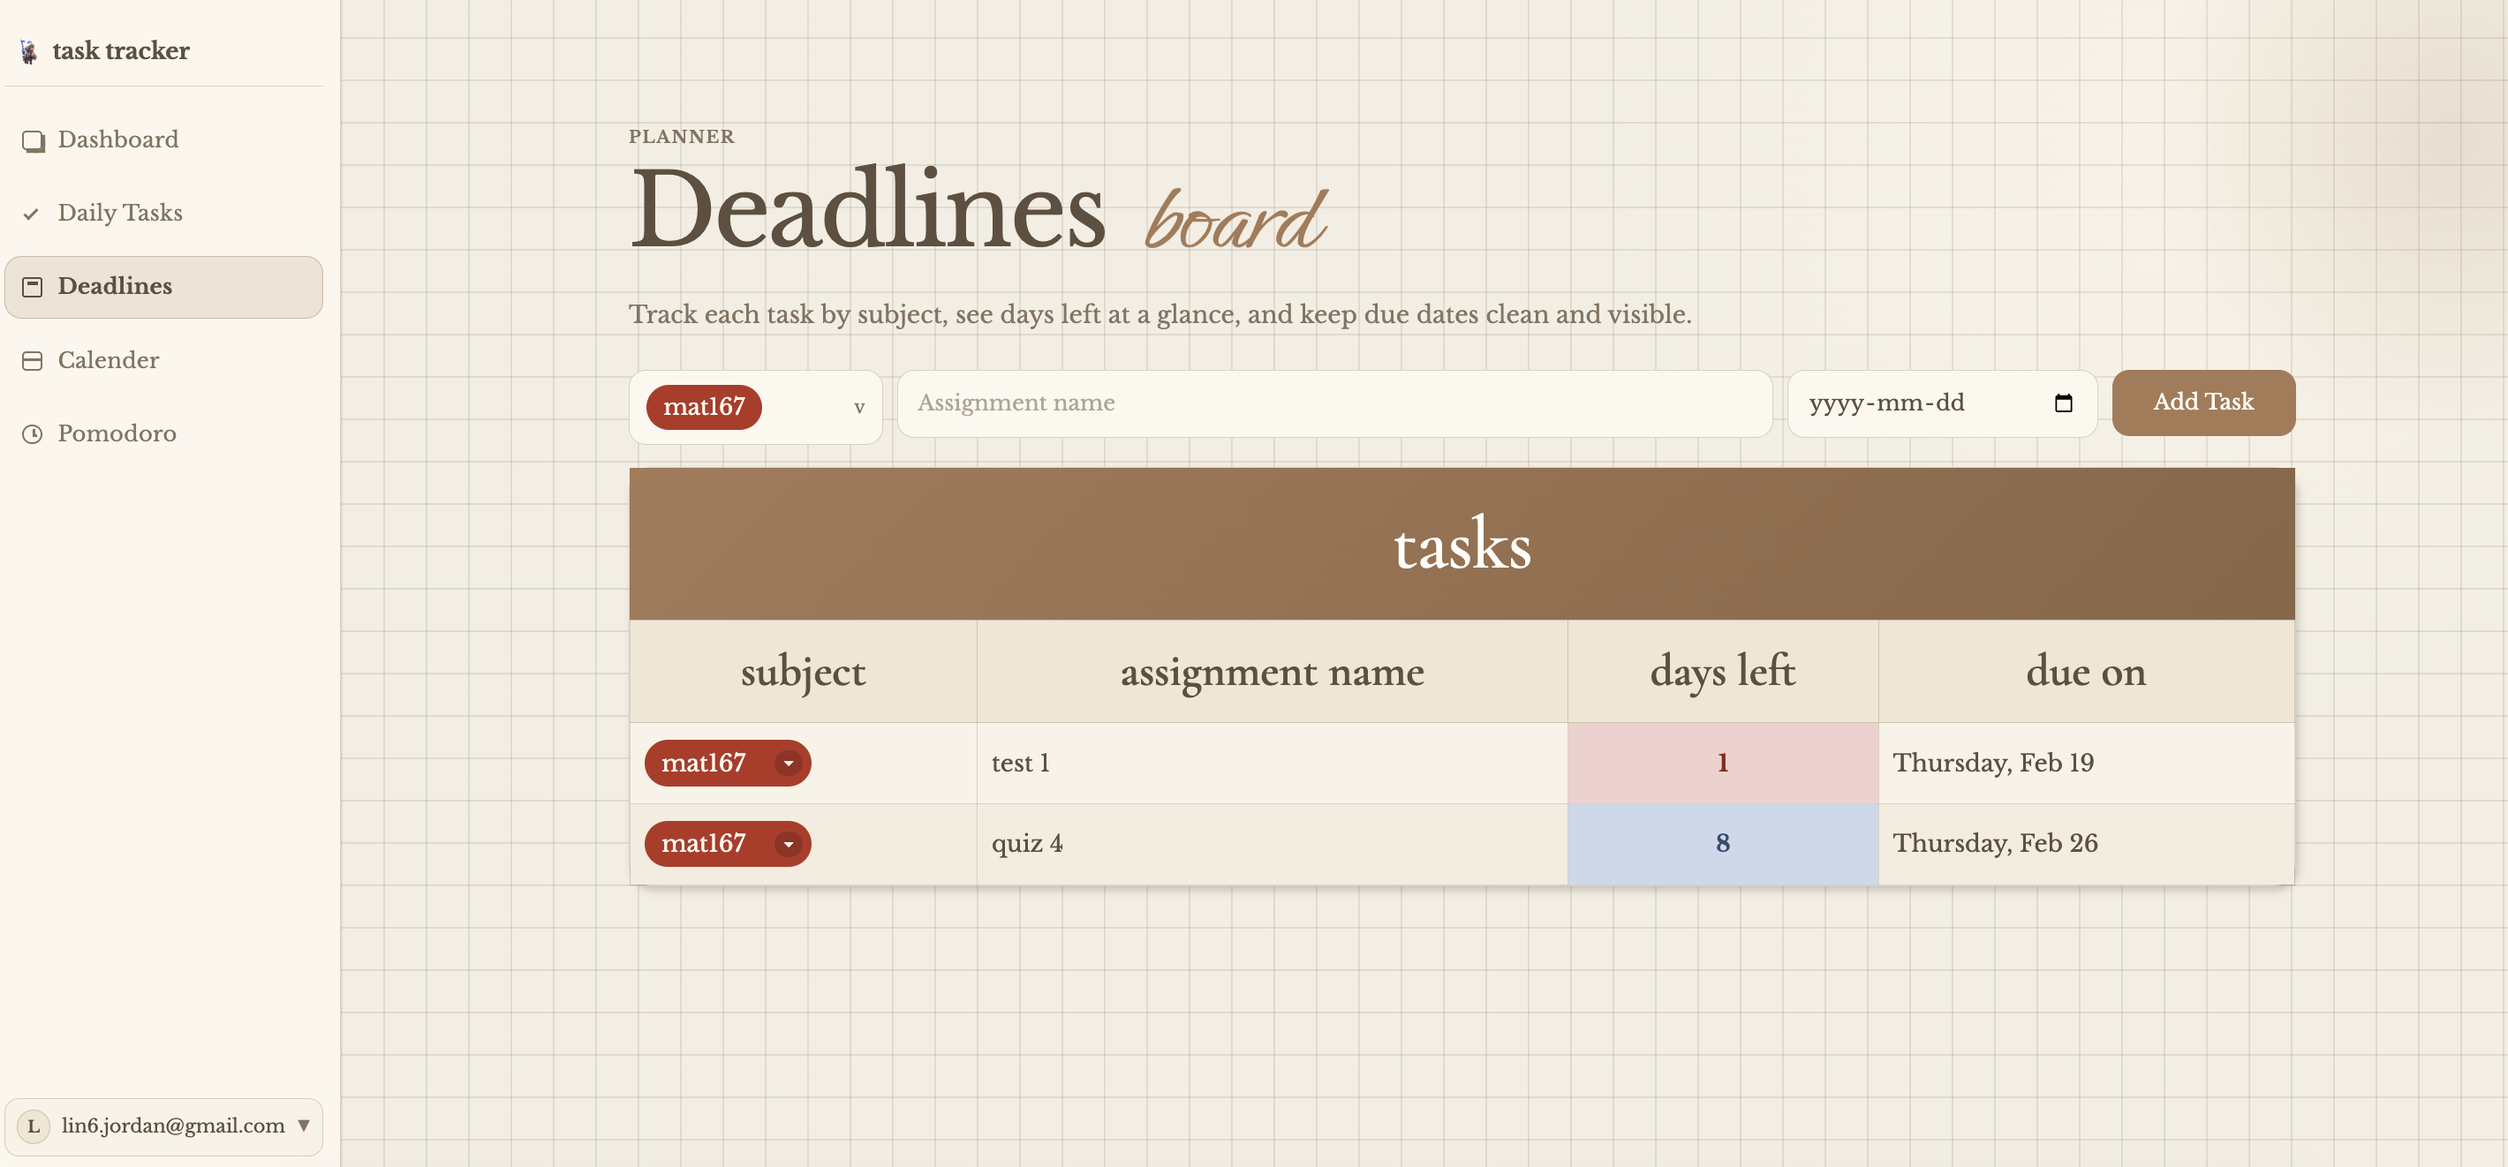
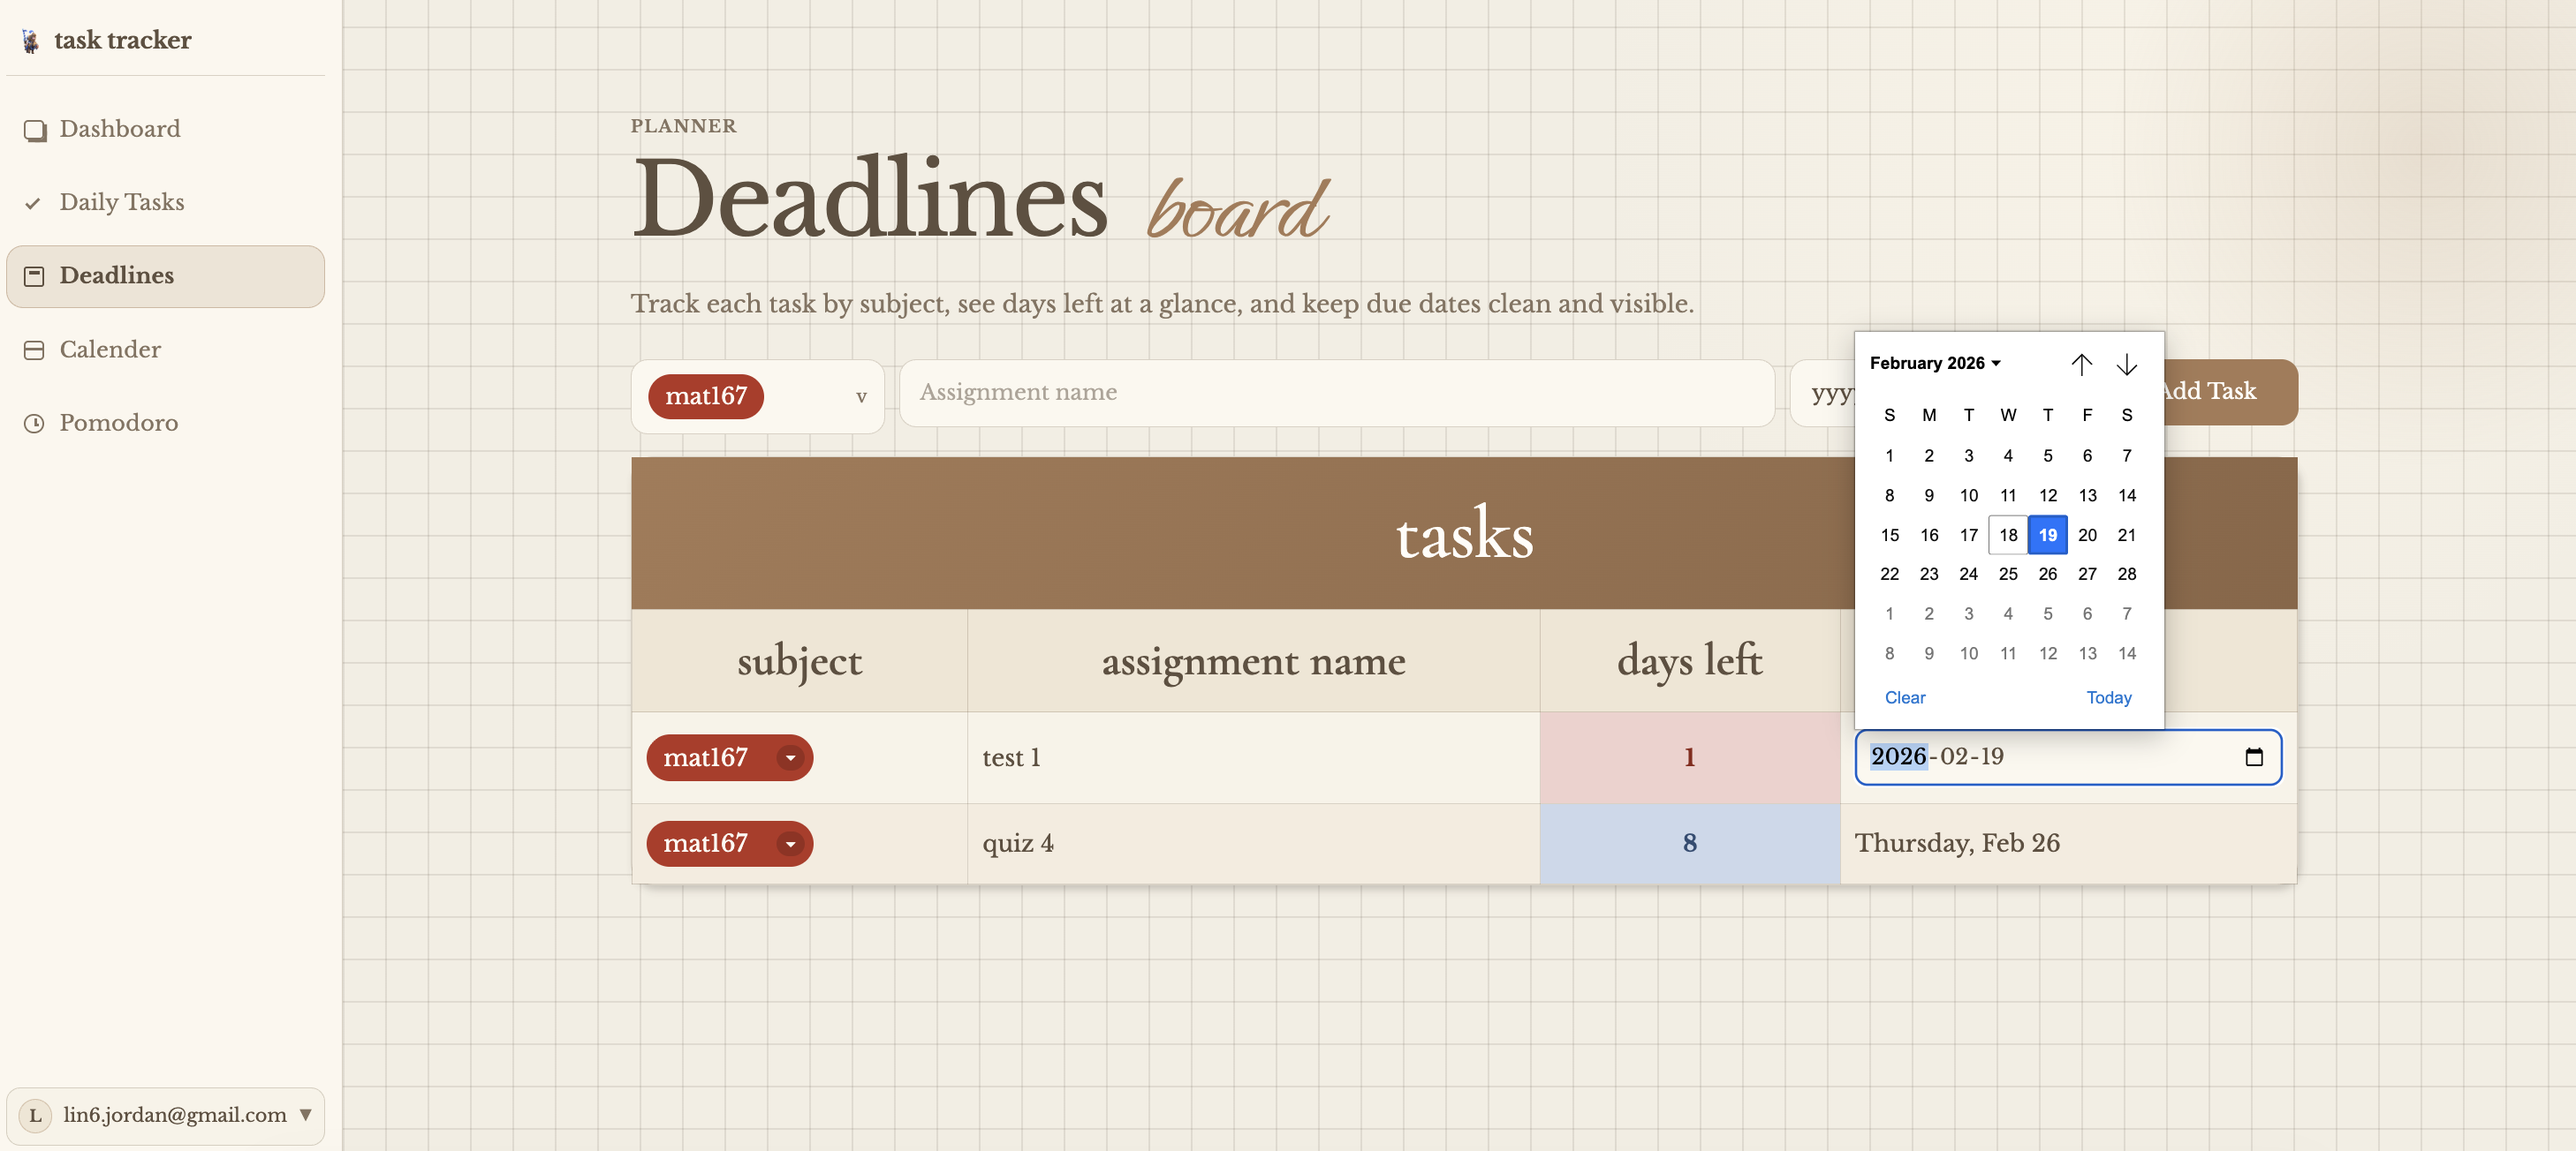
changed readme

diff --git a/README.md b/README.md
@@ -1,6 +1,14 @@
-# Preview Links
 
+used to keep track of deadlines and see how productive you are 
+
+### weekly dashboard
 ![prev1](./preview/prev1.png)
+
+### daily habit tracker with graphs
 ![prev2](./preview/prev2.png)
+
+### important deadlines. Allows you to easily change the due date for a task if it occurs occasionaly
 ![prev3](./preview/prev3.png)
+
+### visualize important deadlines on a calender 
 ![prev4](./preview/prev4.png)
